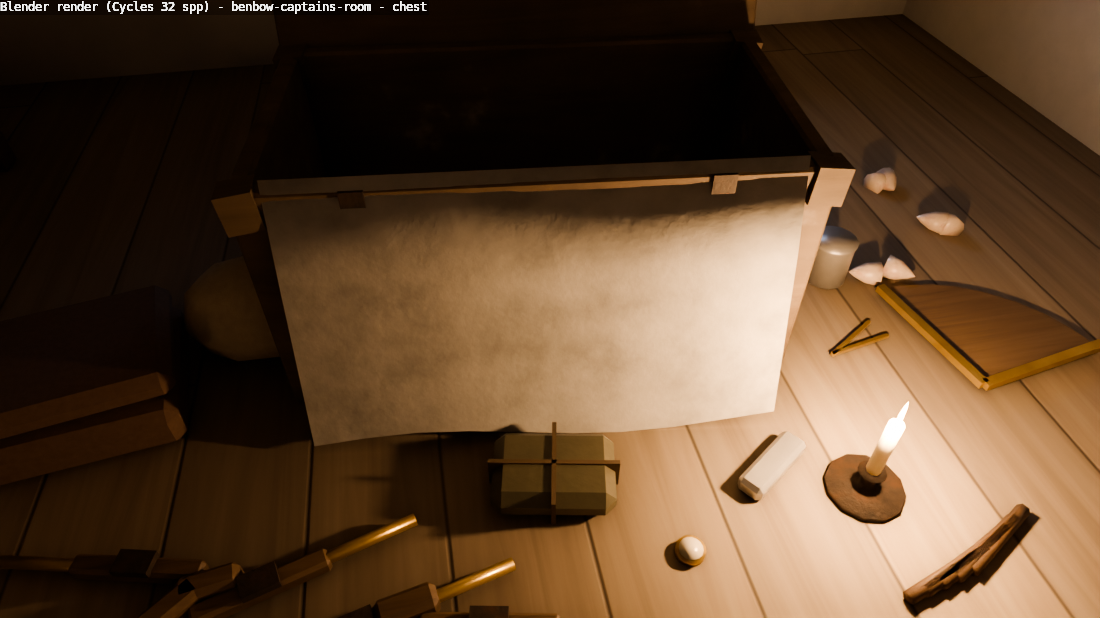
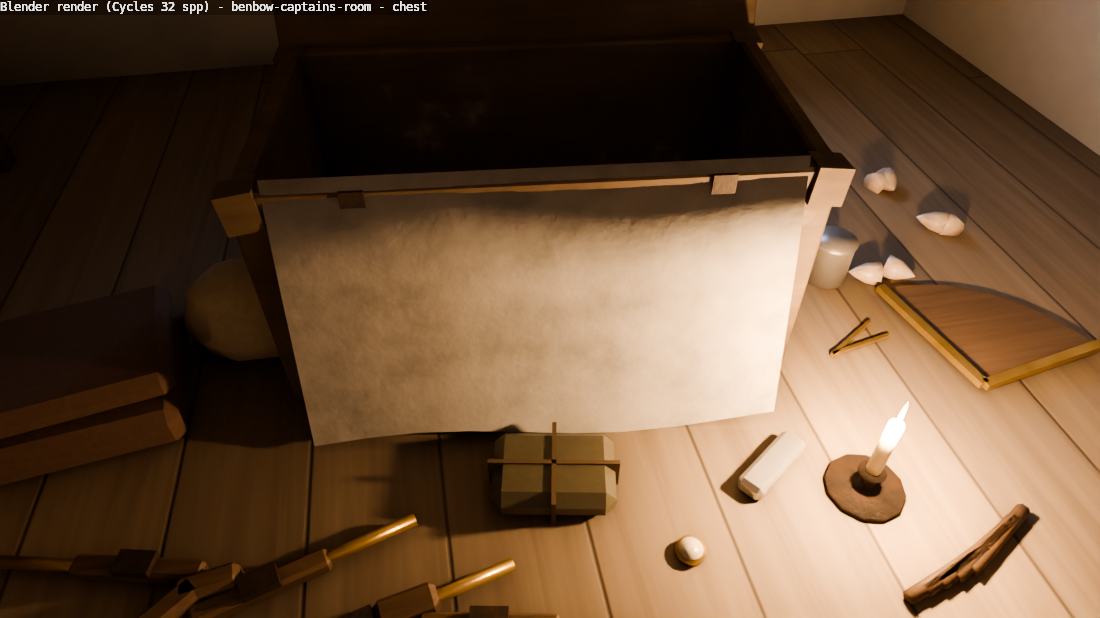
Scene room benbow-captains-room (treasure c04): brighter candle, moonlight and night fill
The first bake hit runtime_bake's light-scale cap (a very dark room); the candle, the moon at the window and the
landing glow are raised and the night fill lifted so the room reads on the headset. Republished. 4,802 triangles.

diff --git a/blender/build_benbow_captains_room.py b/blender/build_benbow_captains_room.py
@@ -357,11 +357,11 @@ for a in (0.0, math.pi / 2):
 FLc.finish(smooth_=False)
 
 # ----------------------------------------------------------------------------- lights, world, living empties, anchors
-light_obj("light.candle", 'POINT', 9.0, (1.0, 0.58, 0.28), tuple(TIP + Vector((0, 0, 0.03))), shadow_soft_size=0.02)
-light_obj("light.moon", 'AREA', 7.0, (0.55, 0.68, 1.0), (WIN_X, Y1 + 0.3, (WIN_Z0 + WIN_Z1) / 2), direction=(0, -1, -0.35), size=WIN_W, shape='RECTANGLE', size_y=WIN_Z1 - WIN_Z0)
-light_obj("light.landing", 'POINT', 3.0, (1.0, 0.6, 0.32), (DOOR_X - 0.3, Y0 - WT - 1.0, 0.4), shadow_soft_size=0.1)
+light_obj("light.candle", 'POINT', 22.0, (1.0, 0.58, 0.28), tuple(TIP + Vector((0, 0, 0.03))), shadow_soft_size=0.02)
+light_obj("light.moon", 'AREA', 26.0, (0.55, 0.68, 1.0), (WIN_X, Y1 + 0.3, (WIN_Z0 + WIN_Z1) / 2), direction=(0, -1, -0.35), size=WIN_W, shape='RECTANGLE', size_y=WIN_Z1 - WIN_Z0)
+light_obj("light.landing", 'POINT', 8.0, (1.0, 0.6, 0.32), (DOOR_X - 0.3, Y0 - WT - 1.0, 0.4), shadow_soft_size=0.1)
 world = bpy.data.worlds.new("Night"); scene.world = world; world.use_nodes = True
-world.node_tree.nodes["Background"].inputs["Color"].default_value = (0.01, 0.012, 0.02, 1)
+world.node_tree.nodes["Background"].inputs["Color"].default_value = (0.03, 0.035, 0.05, 1)
 world.node_tree.nodes["Background"].inputs["Strength"].default_value = 1.0
 living_empty("fx.candle.floor", tuple(TIP), 0.012)
 living_empty("sound.clock.below", (0.0, -0.5, -0.5), 0.3)
@@ -391,7 +391,7 @@ if not args.nosave:
     bpy.ops.wm.save_as_mainfile(filepath=os.path.join(OUT, "benbow_captains_room_source.blend"))
 K.budget()
 if args.render:
-    B.render_stamped(scene, cams, "benbow-captains-room", OUT, args.res, args.cams, page=page, page_cams={"Cam_Page"}, default_exposure=2.2,
+    B.render_stamped(scene, cams, "benbow-captains-room", OUT, args.res, args.cams, page=page, page_cams={"Cam_Page"}, default_exposure=1.4,
                      captures_dir=CAPTURES)
 if args.bake or args.export:
     T_ = min(args.tex, 2048)
